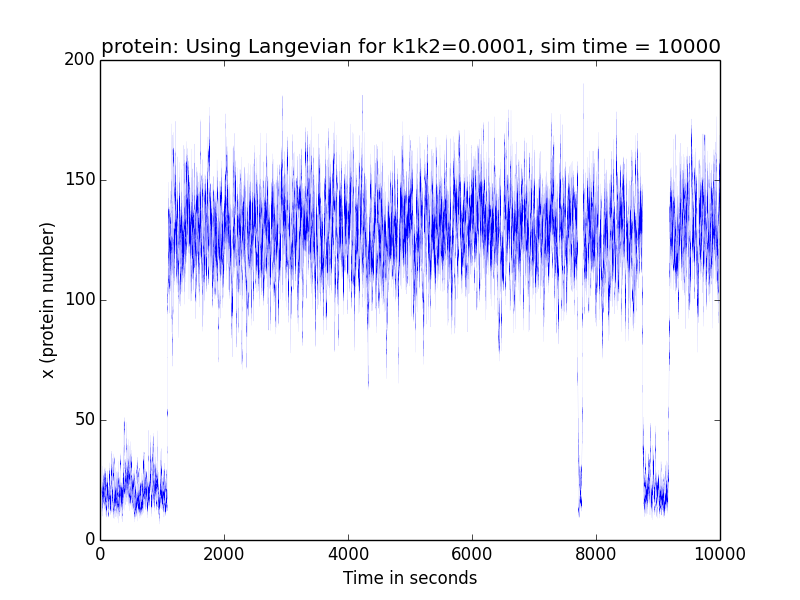
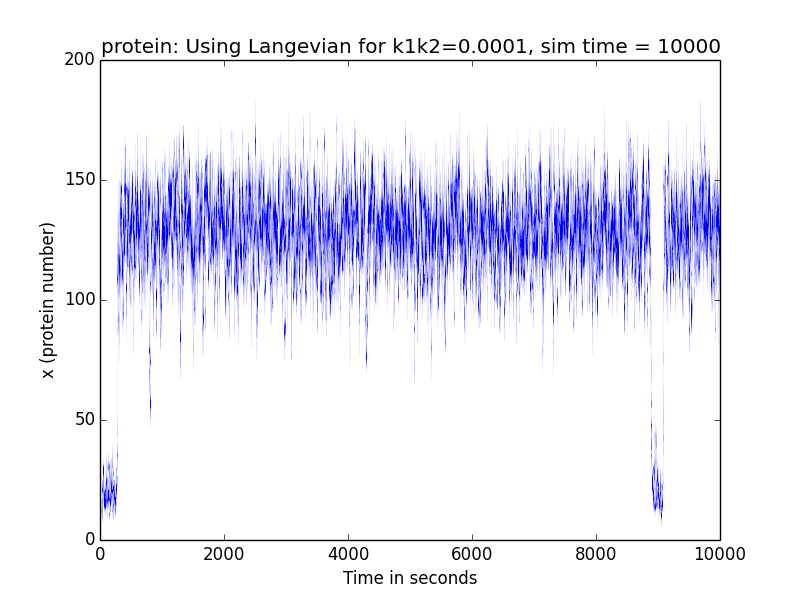
ready for server.

diff --git a/RandomnessInBiology_Monsoon_2014/Assignment07/solve.py b/RandomnessInBiology_Monsoon_2014/Assignment07/solve.py
@@ -1,7 +1,7 @@
 
 """solve.py: Soluting to homework 7.
 
-Last modified: Thu Oct 30, 2014  04:19PM
+Last modified: Thu Oct 30, 2014  07:27PM
 
 """
     
@@ -32,9 +32,10 @@ class GeneticSwitch():
         self.trajectories = []
         # Time when we read state B first time
         self.timeToCrossStateBFirstTime = []
-        self.stateBThreshold = 50.0
+        self.stateAThreshold = 20.0
+        self.stateBThreshold = 120.0
         self.stateBTimes = []
-        self.increasing = True
+        self.whichState = 0
 
     def reinit(self):
         self.x = self.initx
@@ -55,10 +56,14 @@ class GeneticSwitch():
 
     def wienerTerm(self, x, dt = None):
         """A wiener term """
+        # In some simulations, we might run out of random number. IN such case,
+        # start fetching the number from begining.
+
+        alphaIndex = self.currentStep % len(self.alpha)
         if dt is not None:
-            result = (self.dt**0.5) * self.alpha[self.currentStep] * self.g(x)
+            result = (self.dt**0.5) * self.alpha[alphaIndex] * self.g(x)
         else:
-            result = (self.step**0.5) * self.alpha[self.currentStep] * self.g(x)
+            result = (self.step**0.5) * self.alpha[alphaIndex] * self.g(x)
         return result
 
     def dxTerm(self, x, dt=None):
@@ -71,24 +76,44 @@ class GeneticSwitch():
         self.dx = dx
         return dx
 
-    def solveLangevian(self):
+    def solveLangevian(self, totalSteps = None):
         # Solving Langevian equations.
-        output = np.zeros(self.totalSteps)
-        for i, e in enumerate(range(self.totalSteps)):
+        if not totalSteps:
+            totalSteps = self.totalSteps
+        output = np.zeros(totalSteps)
+        for i, e in enumerate(range(totalSteps)):
             dx = self.dxTerm(self.x)
             wiener = self.wienerTerm(self.x)
-            if dx + wiener < 0.0:
-                self.increasing  = False
-            else:
-                self.increasing = True
             self.x += (dx + wiener)
             output[i] = self.x
-            if self.x >= self.stateBThreshold:
-                if self.increasing:
-                    self.stateBTimes.append(self.time)
             self.time += self.step
             self.currentStep += 1
         return output
+
+    def solveLangevianForTransitions(self, transitions):
+        """ Keep solving till we get enought transitions """
+        f = open("transition_time.txt", "a")
+        f.write("\n\n")
+        self.transitionTime = []
+        while len(self.transitionTime) < transitions:
+            dx = self.dxTerm(self.x)
+            wiener = self.wienerTerm(self.x)
+            self.x += (dx + wiener)
+            self.time += self.step
+            if self.x < self.stateAThreshold:
+                if self.whichState == 1:
+                    print("|| %s Transition High -> Log" % self.time)
+                    f.write("%s\n" % self.time)
+                    self.transitionTime.append(self.time)
+                self.whichState  = 0
+            elif self.x > self.stateBThreshold:
+                if self.whichState == 0:
+                    print("|| %s Transition Low -> High" % self.time)
+                    f.write("%s\n" % self.time)
+                    self.transitionTime.append(self.time)
+                self.whichState = 1
+            self.currentStep += 1
+        f.close()
 
     def run(self, step = 0.1, stop = 1000, ntimes = 1):
         self.step = step
@@ -149,11 +174,24 @@ class GeneticSwitch():
         else:
             plt.show()
 
-def main():
+    def transitions(self, step, noOfTransitions, thresholdA, thresholdB):
+        self.step = step
+        self.alpha = np.random.normal(0, 1.0,1e7)
+        self.stateAThreshold = thresholdA
+        self.stateBThreshold = thresholdB 
+        self.solveLangevianForTransitions(noOfTransitions)
+        print("Done")
+
+def main(problem = 1):
     gs = GeneticSwitch(k1k2=1e-4, init=0)
-    gs.run(step = 0.01, stop = 10000, ntimes = 1)
-    gs.plotTrajectories(save = True)
-    gs.plotHistogram( save = True)
+    print("++ Solving problem no {}".format(problem))
+    if problem == 1:
+        gs.run(step = 0.01, stop = 10000, ntimes = 1)
+        gs.plotTrajectories(save = True)
+        gs.plotHistogram( save = True)
+    elif problem == 3:
+        gs.transitions(step = 0.01, noOfTransitions = 100, thresholdA = 20,
+                thresholdB = 125)
 
 if __name__ == '__main__':
-    main()
+    main(3)
